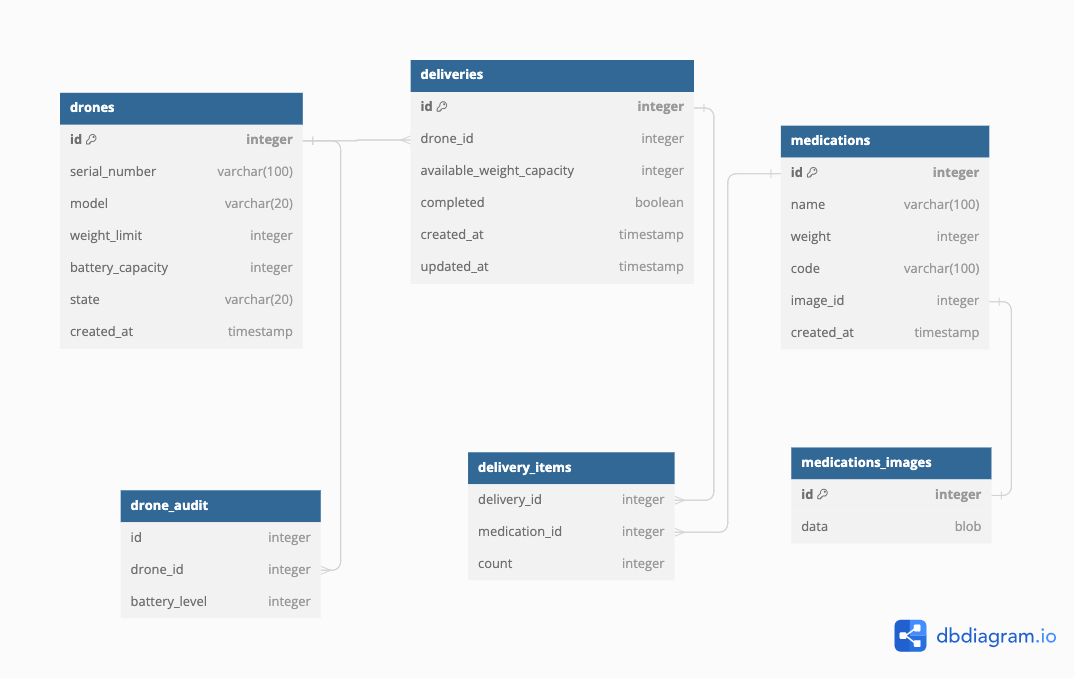
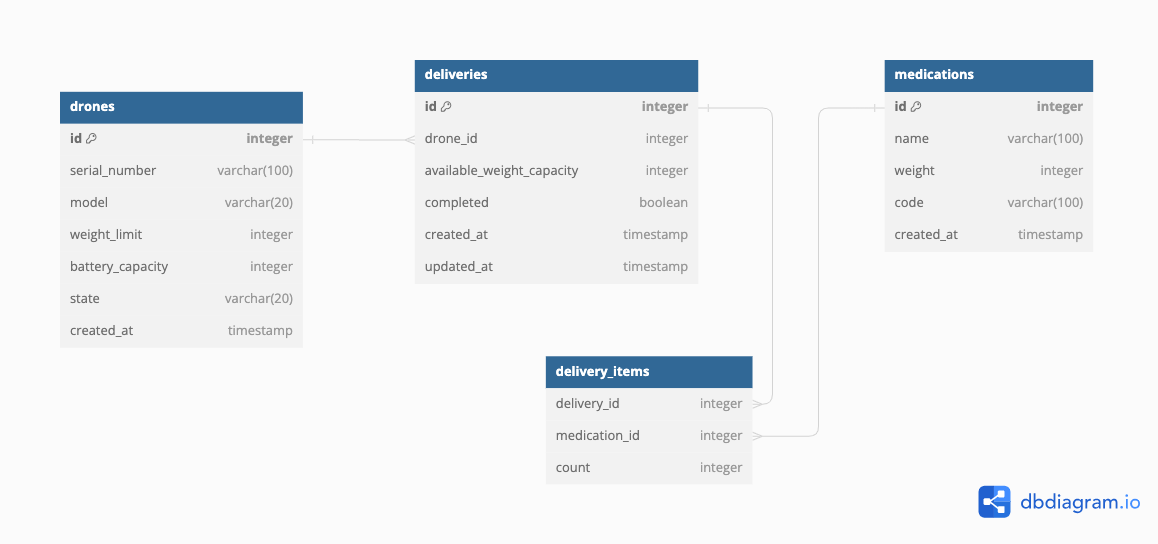
Flyway migrations, Drone panache entity, Drone Rest Api

diff --git a/src/main/java/com/github/chMatvey/model/Drone.java b/src/main/java/com/github/chMatvey/model/Drone.java
@@ -1,0 +1,55 @@
+package com.github.chMatvey.model;
+
+import com.github.chMatvey.model.converter.DroneModelConverter;
+import io.quarkus.hibernate.orm.panache.PanacheEntityBase;
+import jakarta.persistence.*;
+import lombok.AllArgsConstructor;
+import lombok.Builder;
+import lombok.Getter;
+import lombok.NoArgsConstructor;
+import org.hibernate.annotations.CreationTimestamp;
+
+import java.time.LocalDateTime;
+import java.util.List;
+
+import static com.github.chMatvey.model.DroneState.IDLE;
+import static jakarta.persistence.EnumType.STRING;
+import static jakarta.persistence.GenerationType.SEQUENCE;
+
+@Entity
+@Table(name = "drones")
+@Getter
+@Builder
+@NoArgsConstructor
+@AllArgsConstructor
+public class Drone extends PanacheEntityBase {
+    @Id
+    @SequenceGenerator(name = "drones_id_seq", sequenceName = "drones_id_seq", allocationSize = 1)
+    @GeneratedValue(strategy = SEQUENCE, generator = "drones_id_seq")
+    int id;
+
+    @Column(name = "serial_number", nullable = false)
+    String serialNumber;
+
+    @Convert(converter = DroneModelConverter.class)
+    @Column(nullable = false)
+    DroneModel model;
+
+    @Column(name = "weight_limit", nullable = false)
+    int weightLimit;
+
+    @Column(name = "battery_capacity", nullable = false)
+    int batteryCapacity;
+
+    @Enumerated(STRING)
+    @Column(nullable = false)
+    DroneState state;
+
+    @CreationTimestamp
+    @Column(name = "created_at", updatable = false)
+    LocalDateTime createdAt;
+
+    public static List<Drone> available() {
+        return list("state", IDLE);
+    }
+}

diff --git a/src/main/java/com/github/chMatvey/service/DroneService.java b/src/main/java/com/github/chMatvey/service/DroneService.java
@@ -1,0 +1,36 @@
+package com.github.chMatvey.service;
+
+import com.github.chMatvey.model.Drone;
+import com.github.chMatvey.web.request.DroneRegisterRequest;
+import com.github.chMatvey.web.response.DroneRegisterResponse;
+import com.github.chMatvey.web.response.DroneResponse;
+import jakarta.enterprise.context.ApplicationScoped;
+import jakarta.transaction.Transactional;
+
+import java.util.List;
+
+import static com.github.chMatvey.model.DroneState.IDLE;
+
+@ApplicationScoped
+public class DroneService {
+    public List<DroneResponse> availableDrones() {
+        return Drone.available().stream()
+                .map(DroneResponse::create)
+                .toList();
+    }
+
+    @Transactional
+    public DroneRegisterResponse registerDrone(DroneRegisterRequest request) {
+        Drone drone = Drone.builder()
+                .serialNumber(request.serialNumber())
+                .model(request.model())
+                .weightLimit(request.weightLimit())
+                .batteryCapacity(100)
+                .state(IDLE)
+                .build();
+
+        drone.persist();
+
+        return new DroneRegisterResponse(drone.getId());
+    }
+}

diff --git a/src/main/java/com/github/chMatvey/web/DroneResource.java b/src/main/java/com/github/chMatvey/web/DroneResource.java
@@ -1,0 +1,32 @@
+package com.github.chMatvey.web;
+
+import com.github.chMatvey.service.DroneService;
+import com.github.chMatvey.web.request.DroneRegisterRequest;
+import com.github.chMatvey.web.response.DroneRegisterResponse;
+import com.github.chMatvey.web.response.DroneResponse;
+import jakarta.inject.Inject;
+import jakarta.ws.rs.GET;
+import jakarta.ws.rs.POST;
+import jakarta.ws.rs.Path;
+import org.jboss.resteasy.reactive.ResponseStatus;
+
+import java.util.List;
+
+@Path("/api/v1/drones")
+public class DroneResource {
+    @Inject
+    DroneService droneService;
+
+    @GET
+    @Path("/available")
+    public List<DroneResponse> availableDrones() {
+        return droneService.availableDrones();
+    }
+
+    @POST
+    @Path("/register")
+    @ResponseStatus(201)
+    public DroneRegisterResponse registerDrone(DroneRegisterRequest request) {
+        return droneService.registerDrone(request);
+    }
+}

diff --git a/src/main/java/com/github/chMatvey/web/response/DroneResponse.java b/src/main/java/com/github/chMatvey/web/response/DroneResponse.java
@@ -1,0 +1,27 @@
+package com.github.chMatvey.web.response;
+
+import com.github.chMatvey.model.Drone;
+import com.github.chMatvey.model.DroneModel;
+import com.github.chMatvey.model.DroneState;
+import lombok.Builder;
+
+@Builder
+public record DroneResponse(
+        int id,
+        String serialNumber,
+        DroneModel model,
+        int weightLimit,
+        int batteryCapacity,
+        DroneState state
+) {
+    public static DroneResponse create(Drone drone) {
+        return DroneResponse.builder()
+                .id(drone.getId())
+                .serialNumber(drone.getSerialNumber())
+                .model(drone.getModel())
+                .weightLimit(drone.getWeightLimit())
+                .batteryCapacity(drone.getBatteryCapacity())
+                .state(drone.getState())
+                .build();
+    }
+}

diff --git a/src/main/java/com/github/chMatvey/model/converter/DroneModelConverter.java b/src/main/java/com/github/chMatvey/model/converter/DroneModelConverter.java
@@ -1,0 +1,23 @@
+package com.github.chMatvey.model.converter;
+
+import com.github.chMatvey.model.DroneModel;
+import jakarta.persistence.AttributeConverter;
+import jakarta.persistence.Converter;
+
+import java.util.Arrays;
+
+@Converter
+public class DroneModelConverter implements AttributeConverter<DroneModel, String> {
+    @Override
+    public String convertToDatabaseColumn(DroneModel model) {
+        return model.getValue();
+    }
+
+    @Override
+    public DroneModel convertToEntityAttribute(String value) {
+        return Arrays.stream(DroneModel.values())
+                .filter(model -> model.getValue().equals(value))
+                .findAny()
+                .orElseThrow(IllegalArgumentException::new);
+    }
+}

diff --git a/src/main/java/com/github/chMatvey/web/request/DroneRegisterRequest.java b/src/main/java/com/github/chMatvey/web/request/DroneRegisterRequest.java
@@ -1,0 +1,21 @@
+package com.github.chMatvey.web.request;
+
+import com.github.chMatvey.model.DroneModel;
+import jakarta.validation.constraints.*;
+import lombok.Builder;
+
+@Builder
+public record DroneRegisterRequest(
+        @NotBlank
+        @Size(max = 100)
+        String serialNumber,
+
+        @NotNull
+        DroneModel model,
+
+        @Max(500)
+        @Positive
+        @NotNull
+        int weightLimit
+) {
+}

diff --git a/src/main/java/com/github/chMatvey/model/DroneModel.java b/src/main/java/com/github/chMatvey/model/DroneModel.java
@@ -1,0 +1,17 @@
+package com.github.chMatvey.model;
+
+import com.fasterxml.jackson.annotation.JsonValue;
+import lombok.Getter;
+import lombok.RequiredArgsConstructor;
+
+@Getter
+@RequiredArgsConstructor
+public enum DroneModel {
+    LIGHTWEIGHT("Lightweight"),
+    MIDDLEWEIGHT("Middleweight"),
+    CRUISERWEIGHT("Cruiserweight"),
+    HEAVYWEIGHT("Heavyweight");
+
+    @JsonValue
+    private final String value;
+}

diff --git a/src/main/java/com/github/chMatvey/model/DroneState.java b/src/main/java/com/github/chMatvey/model/DroneState.java
@@ -1,0 +1,10 @@
+package com.github.chMatvey.model;
+
+public enum DroneState {
+    IDLE,
+    LOADING,
+    LOADED,
+    DELIVERING,
+    DELIVERED,
+    RETURNING
+}

diff --git a/src/main/java/com/github/chMatvey/web/response/DroneRegisterResponse.java b/src/main/java/com/github/chMatvey/web/response/DroneRegisterResponse.java
@@ -1,0 +1,7 @@
+package com.github.chMatvey.web.response;
+
+import lombok.Builder;
+
+@Builder
+public record DroneRegisterResponse(int id) {
+}
